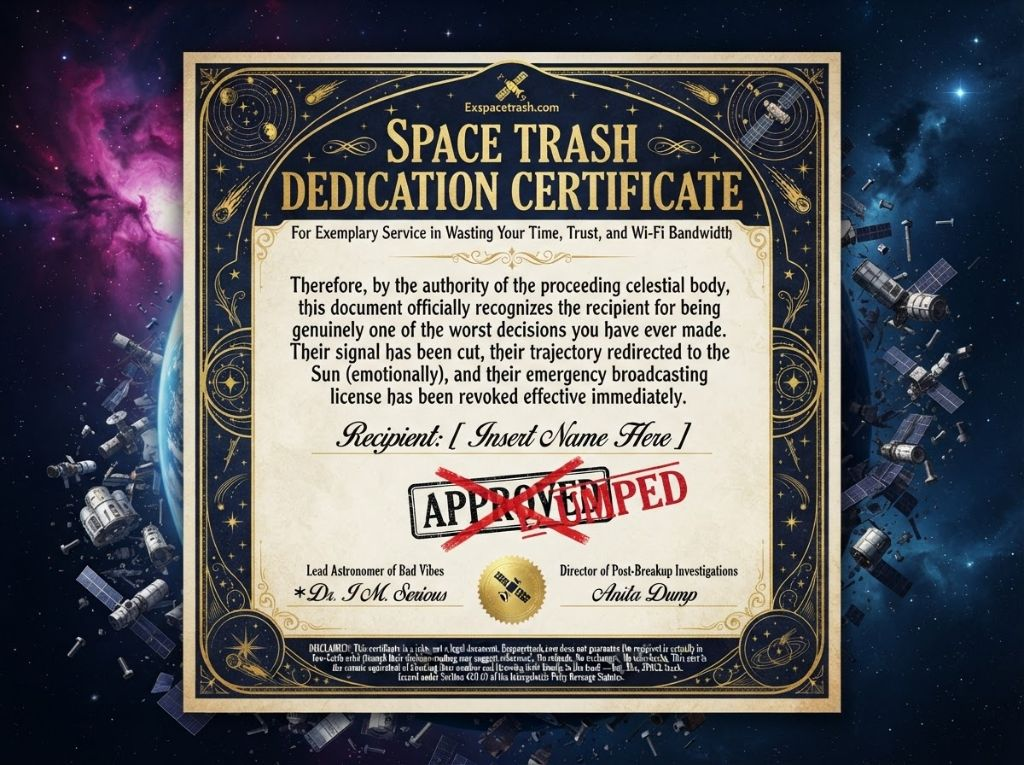
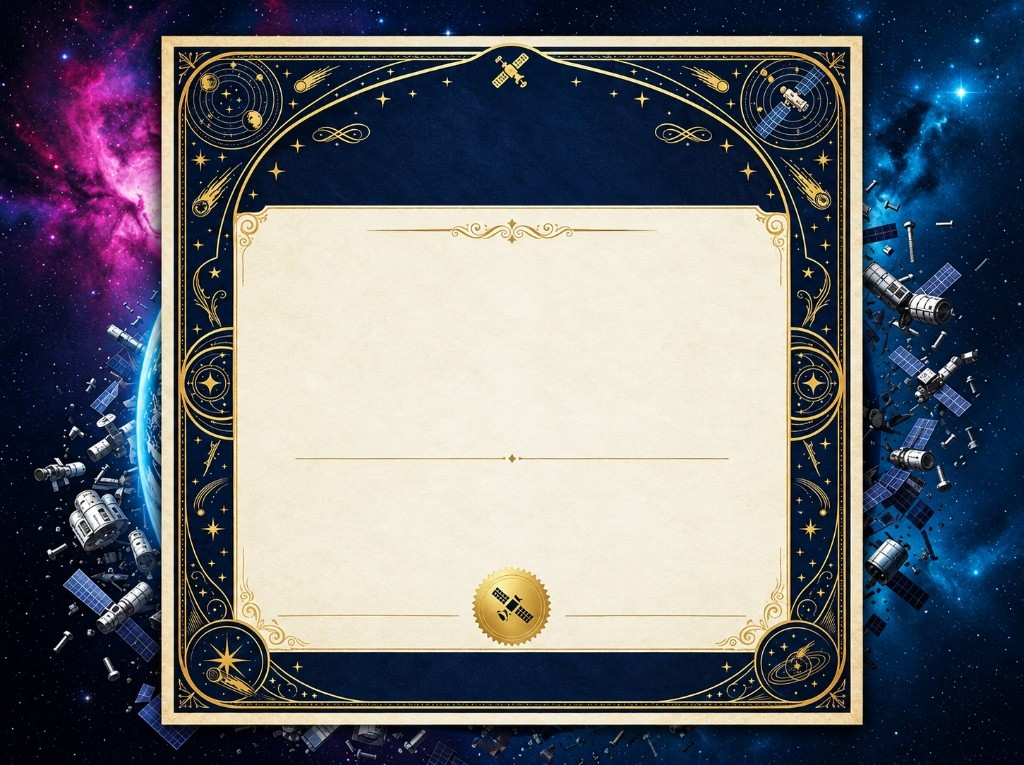
Rebuild the certificate so printed copy can never collide with the buyer's text
The artwork used to carry its printed words baked into the pixels, so a long
name or quote ran straight across them. Both templates now use clean, text-free
artwork and every word -- the fixed title, kicker, sign-off and fine print AND
the buyer's name, quote, emoji and meta line -- is real HTML laid over the art.

The stage is now a flex column of three sibling rows (cert-head / cert-slot /
cert-foot), so the buyer's block and the fixed copy cannot overlap by
construction, whatever the buyer types. Two follow-on fixes were needed:

  * box-sizing: border-box on .cert-stage. Without it the 1024x765 stage was
    content-box, so its 76/66px padding inflated it to 1144x907 and html2canvas
    clipped the footer off the bottom of the capture.
  * A corrupted fragment at the pickHeroDebris comment broke the inline script
    (`node --check` failed); repaired.

Layout per the two requests that followed:
  * Template B: title lifted out of the column and pinned into the navy band
    above the ivory sheet, switched to light ink; buyer's block left at the top
    of the sheet, off the wax seal.
  * Template A: buyer's block centred so it lands on the middle of the sheet.
    Quote/meta given stronger outlines since they now sit over the bright planet.

Adds tests/check-cert-layout.mjs, which asserts the three properties that keep
the layout collision-proof across both markup instances and both templates, and
wire `npm test` to run all five checks. Bumps APP_VERSION to 1.3.4.

diff --git a/index.html b/index.html
@@ -389,11 +389,19 @@
         <div style="margin: 15px 0;">
             <div class="cert-preview-viewport">
                 <div class="cert-stage cert-tpl-a" id="cert-preview-stage" data-cert-stage>
-                    <div class="cert-panel">
+                    <div class="cert-head">
+                        <div class="cert-title" data-cert-role="title">Official Space Trash Dedication Certificate</div>
+                        <div class="cert-kicker" data-cert-role="kicker">Awarded for Outstanding Performance in Being Someone Else’s Problem Now</div>
+                    </div>
+                    <div class="cert-slot">
                         <div class="cert-emoji" data-cert-role="emoji" style="display:none;">--</div>
                         <div class="cert-name" data-cert-role="name">UNKNOWN</div>
                         <div class="cert-quote" data-cert-role="quote" style="display:none;">--</div>
                         <div class="cert-meta" data-cert-role="meta">--</div>
+                    </div>
+                    <div class="cert-foot">
+                        <div class="cert-signoff" data-cert-role="signoff">Mission Control Heartbreak Division · Exspacetrash.com · EST 2024</div>
+                        <div class="cert-fine" data-cert-role="fine">100% NOVELTY — no actual astronauts were harmed and no orbit was altered in the making of this certificate. Exspacetrash.com accepts no liability for emotional damage, hurt feelings, or grudges held past 2 AM. Not valid for legal separation, restraining orders, or custody of the dog. The debris is real. This paperwork is not.</div>
                     </div>
                 </div>
             </div>
@@ -481,77 +489,104 @@
     <!-- and the paid export can never drift apart.                         -->
     <!-- ================================================================= -->
     <style>
-      .cert-stage { position: relative; width: 1024px; height: 765px;
+      /* ---- Certificate: pure-art background + HTML text ----
+         The artwork images now carry no baked-in words. Every word -- the fixed
+         copy AND the buyer's name, quote and meta -- is real HTML laid over the
+         art, so printed text can never collide with the buyer's again, and no
+         scrim is needed to hide anything. */
+      /* The stage is a flex COLUMN of three rows -- head (the fixed title),
+         slot (everything the buyer typed) and foot (the disclaimers). As
+         siblings in a flex column the rows cannot overlap one another, so
+         however long the buyer's name, quote or meta turn out to be, their
+         text can never land on top of the printed copy. The inset padding keeps
+         every row inside the artwork's own frame. */
+      .cert-stage { position: relative; box-sizing: border-box;
+                    width: 1024px; height: 765px;
                     background-size: 1024px 765px; background-repeat: no-repeat;
-                    font-family: 'Share Tech Mono', monospace; overflow: hidden; }
-      .cert-tpl-a { background-image: url('/assets/certs/cert-a-orbital.png'); }
-      .cert-tpl-b { background-image: url('/assets/certs/cert-b-parchment.png'); }
+                    font-family: 'Share Tech Mono', monospace; overflow: hidden;
+                    display: flex; flex-direction: column; align-items: center; }
+      .cert-tpl-a { background-image: url('/assets/certs/cert-a-orbital.png');
+                    padding: 76px 60px 66px; }
+      /* B's padding is tuned to the sheet's own furniture: the title clears the
+         gold flourish band (which ends ~y232), and the bottom inset lifts the
+         disclaimers up onto the blank ivory between the divider rule (y458) and
+         the wax seal (y~590), so nothing lands on the ribbon or the corner
+         medallions. */
+      .cert-tpl-b { background-image: url('/assets/certs/cert-b-parchment.png');
+                    padding: 330px 200px 185px; }
+      /* B's title is lifted out of the flex column and pinned up in the navy band
+         above the ivory sheet, so the sheet below keeps its own blank top. The
+         band is dark navy, so the title and kicker switch to light ink. */
+      .cert-tpl-b .cert-head { position: absolute; left: 238px; right: 238px;
+                    width: auto; top: 104px; }
+      /* On B the title now sits on the dark navy band, so it needs light ink --
+         the sheet's dark-brown ink would disappear against it. */
+      .cert-tpl-b .cert-head .cert-title { color: #e9c464;
+                    text-shadow: 0 1px 4px rgba(0,0,0,0.85); }
+      .cert-tpl-b .cert-head .cert-kicker { color: #cfe0ff;
+                    text-shadow: 0 1px 3px rgba(0,0,0,0.85); }
 
-      /* The panel is OPAQUE on purpose. It previously used alpha (0.80 / 0.93)
-         and the artwork's own printed paragraph showed straight through it,
-         colliding with the buyer's name. A solid fill is the only reliable fix
-         on artwork this busy.
-         Each panel is sized to sit over the artwork's paragraph block and stop
-         before its stamps / footer. */
-      /* NO BOX. A hard-edged rectangle reads as a sticker pasted over the art.
-         Instead: a soft radial scrim — opaque right where the text sits, faded
-         to fully transparent well before the edge, so there is no visible
-         border and the artwork shows through around the words. */
-      .cert-panel { position: absolute; box-sizing: border-box; display: flex;
-                    flex-direction: column; align-items: center;
+      .cert-head, .cert-slot, .cert-foot { width: 100%; box-sizing: border-box;
+                    display: flex; flex-direction: column; align-items: center;
                     text-align: center; }
+      /* The buyer's box grows to fill whatever space the head and foot leave
+         behind. Its content is pinned to the bottom of that space on A (so the
+         name reads as a signature over the dark lower sky) and to the top on B
+         (so it stays above the wax seal). Either way the flex column guarantees
+         it can never reach into the fixed copy. */
+      .cert-slot { flex: 1 1 auto; justify-content: center; }
+      .cert-tpl-b .cert-slot { justify-content: flex-start; }
 
-      /* Template A — content anchored to the TOP of the scrim, which lifts the
-         name up under the artwork's subtitle instead of dropping it across the
-         middle of the Earth. */
-      .cert-tpl-a .cert-panel {
-                    left: 96px; top: 196px; width: 832px; height: 340px;
-                    justify-content: flex-start; padding: 22px 34px 0;
-                    background: radial-gradient(ellipse 72% 56% at 50% 42%,
-                                rgba(2, 4, 12, 0.95) 0%,
-                                rgba(2, 4, 12, 0.88) 40%,
-                                rgba(2, 4, 12, 0.50) 70%,
-                                rgba(2, 4, 12, 0.00) 100%); }
+      /* Template A -- deep space with a centred Earth. Rows run title band /
+         buyer's box low over the dark space under the planet / disclaimers in
+         the bottom band.
+         Template B -- parchment sheet. Title sits under the top rule, the
+         buyer's box follows it down the blank body, and the disclaimers sit
+         below the lower rule, clear of the wax seal at the sheet's foot. */
 
-      /* Template B — content anchored to the BOTTOM, which lands the name on the
-         artwork's own "Recipient: ______" line rather than over its paragraph. */
-      .cert-tpl-b .cert-panel {
-                    left: 196px; top: 286px; width: 632px; height: 356px;
-                    justify-content: flex-end; padding: 0 30px 34px;
-                    background: radial-gradient(ellipse 74% 58% at 50% 58%,
-                                rgba(250, 245, 228, 0.97) 0%,
-                                rgba(250, 245, 228, 0.94) 44%,
-                                rgba(250, 245, 228, 0.58) 72%,
-                                rgba(250, 245, 228, 0.00) 100%); }
+      .cert-title { font-weight: 700; letter-spacing: 2px; line-height: 1.06;
+                    text-transform: uppercase; }
+      .cert-tpl-a .cert-title { color: #e9c464; font-size: 44px;
+                    text-shadow: 0 2px 6px rgba(0,0,0,0.95), 0 0 22px rgba(0,0,0,0.8); }
+      .cert-tpl-b .cert-title { color: #1d2a4a; font-family: Georgia, 'Times New Roman', serif;
+                    font-size: 33px; }
 
-      /* The emoji now sits in normal flow inside the panel rather than floating
-         over the artwork, so it can never land on top of the title. */
-      .cert-emoji { line-height: 1; margin-bottom: 4px; }
-      .cert-tpl-a .cert-emoji { font-size: 42px; }
-      .cert-tpl-b .cert-emoji { font-size: 38px; }
+      .cert-kicker { font-style: italic; margin-top: 6px; }
+      .cert-tpl-a .cert-kicker { color: #f4aac6; font-size: 15px;
+                    text-shadow: 0 1px 3px #000, 0 0 12px rgba(0,0,0,0.98); }
+      .cert-tpl-b .cert-kicker { color: #7a2a1c; font-family: Georgia, serif; font-size: 13px; }
+
+      .cert-emoji { line-height: 1; margin-bottom: 2px; }
+      .cert-tpl-a .cert-emoji { font-size: 38px; }
+      .cert-tpl-b .cert-emoji { font-size: 30px; }
 
       .cert-name { font-weight: 700; line-height: 1.05; word-break: break-word;
                    text-transform: uppercase; max-width: 100%; }
-      /* With the box gone, contrast now rides on the text shadow. Template A's
-         artwork is bright and busy, so the gold needs a heavy dark halo to stay
-         readable over the scrim AND over anything showing through it. */
-      .cert-tpl-a .cert-name { color: #efc84e; font-size: 48px;
-                    text-shadow: 0 2px 4px rgba(0,0,0,0.98), 0 0 16px rgba(0,0,0,0.95),
-                                 0 0 40px rgba(0,0,0,0.85); }
-      .cert-tpl-b .cert-name { color: #3a2a10; font-family: Georgia, 'Times New Roman', serif; font-size: 42px;
-                    text-shadow: 0 1px 1px rgba(255,255,255,0.9); }
+      .cert-tpl-a .cert-name { color: #efc84e; font-size: 50px;
+                    text-shadow: 0 2px 5px rgba(0,0,0,0.98), 0 0 30px rgba(0,0,0,0.9); }
+      .cert-tpl-b .cert-name { color: #2f2010; font-family: Georgia, 'Times New Roman', serif;
+                    font-size: 44px; }
 
-      .cert-quote { font-style: italic; margin-top: 8px; word-break: break-word; max-width: 100%; }
-      .cert-tpl-a .cert-quote { color: #4ef2d2; font-size: 19px;
-                    text-shadow: 0 1px 3px rgba(0,0,0,0.98), 0 0 12px rgba(0,0,0,0.9); }
-      .cert-tpl-b .cert-quote { color: #8a2b1f; font-family: Georgia, 'Times New Roman', serif; font-size: 18px;
-                    text-shadow: 0 1px 1px rgba(255,255,255,0.85); }
+      .cert-quote { font-style: italic; margin-top: 6px; word-break: break-word; max-width: 100%; }
+      .cert-tpl-a .cert-quote { color: #6dffe4; font-size: 17px;
+                    text-shadow: 0 1px 3px #000, 0 0 10px rgba(0,0,0,0.98); }
+      .cert-tpl-b .cert-quote { color: #7a2a1c; font-family: Georgia, serif; font-size: 15px; }
 
-      .cert-meta { margin-top: 12px; font-size: 13px; letter-spacing: 1px; max-width: 100%; }
-      .cert-tpl-a .cert-meta { color: #8ab4f8;
-                    text-shadow: 0 1px 3px rgba(0,0,0,0.98), 0 0 10px rgba(0,0,0,0.9); }
-      .cert-tpl-b .cert-meta { color: #6b5a3a; font-family: Georgia, 'Times New Roman', serif;
-                    text-shadow: 0 1px 1px rgba(255,255,255,0.85); }
+      .cert-meta { margin-top: 8px; font-size: 12px; letter-spacing: 1px; max-width: 100%; }
+      .cert-tpl-a .cert-meta { color: #cfe0ff;
+                    text-shadow: 0 1px 3px #000, 0 0 10px rgba(0,0,0,0.98); }
+      .cert-tpl-b .cert-meta { color: #5d4a2e; font-family: Georgia, serif; }
+
+      .cert-signoff { font-style: italic; }
+      .cert-tpl-a .cert-signoff { color: #c8b98e; font-size: 11px;
+                    text-shadow: 0 1px 3px rgba(0,0,0,0.95); }
+      .cert-tpl-b .cert-signoff { color: #8a6a3a; font-family: Georgia, serif; font-size: 11px; }
+
+      .cert-fine { margin-top: 4px; font-size: 8px; line-height: 1.45; letter-spacing: 0.3px; }
+      /* A's fine print is held well inside the ornate frame's corner flourishes. */
+      .cert-tpl-a .cert-fine { color: #8e9bb5; max-width: 660px;
+                    text-shadow: 0 1px 2px rgba(0,0,0,0.9); }
+      .cert-tpl-b .cert-fine { color: #8a6a3a; }
 
       /* Live preview is the full-size stage scaled down. */
       .cert-preview-viewport { position: relative; width: 430px; height: 321px;
@@ -563,11 +598,19 @@
     <!-- Hidden, full-size export target (what html2canvas captures) -->
     <div id="export-cert" style="position: fixed; left: 0; top: 0; z-index: -1; opacity: 0; pointer-events: none;">
       <div class="cert-stage cert-tpl-a" data-cert-stage>
-        <div class="cert-panel">
-          <div class="cert-emoji" data-cert-role="emoji" style="display:none;">--</div>
-          <div class="cert-name" data-cert-role="name">--</div>
-          <div class="cert-quote" data-cert-role="quote" style="display:none;">--</div>
-          <div class="cert-meta" data-cert-role="meta">--</div>
+        <div class="cert-head">
+            <div class="cert-title" data-cert-role="title">Official Space Trash Dedication Certificate</div>
+            <div class="cert-kicker" data-cert-role="kicker">Awarded for Outstanding Performance in Being Someone Else’s Problem Now</div>
+        </div>
+        <div class="cert-slot">
+            <div class="cert-emoji" data-cert-role="emoji" style="display:none;">--</div>
+            <div class="cert-name" data-cert-role="name">UNKNOWN</div>
+            <div class="cert-quote" data-cert-role="quote" style="display:none;">--</div>
+            <div class="cert-meta" data-cert-role="meta">--</div>
+        </div>
+        <div class="cert-foot">
+            <div class="cert-signoff" data-cert-role="signoff">Mission Control Heartbreak Division · Exspacetrash.com · EST 2024</div>
+            <div class="cert-fine" data-cert-role="fine">100% NOVELTY — no actual astronauts were harmed and no orbit was altered in the making of this certificate. Exspacetrash.com accepts no liability for emotional damage, hurt feelings, or grudges held past 2 AM. Not valid for legal separation, restraining orders, or custody of the dog. The debris is real. This paperwork is not.</div>
         </div>
       </div>
     </div>
@@ -584,7 +627,7 @@
     const API_BASE = ''; // same-origin serverless functions under /api
     // Bump this whenever index.html changes. It rides along on every analytics
     // event, so "conversion dropped on the 12th" can be tied to a deploy.
-    const APP_VERSION = '1.3.3';
+    const APP_VERSION = '1.3.4';
     let currentUser = null;
 
     // =====================================================================
@@ -1312,7 +1355,7 @@
         // size overflowed the panel. Step the type down as it gets longer so
         // it always fits on one line.
         const len = name.textContent.length;
-        const base = tpl === 'b' ? 42 : 48;
+        const base = tpl === 'b' ? 44 : 50;
         const scaled = len <= 8  ? base
                      : len <= 12 ? base * 0.82
                      : len <= 16 ? base * 0.68
@@ -1862,6 +1905,22 @@
         // actually shown — otherwise an orbit-filtered object stays claimable.
         let owner = hit;
         while (owner.parent && owner.parent.type !== 'Scene') owner = owner.parent;
+        if (owner.visible === false) return;
+        inspectDebris(hit.userData);
+      }
+    });
+
+    window.addEventListener('resize', () => {
+      camera.aspect = window.innerWidth / window.innerHeight;
+      camera.updateProjectionMatrix();
+      renderer.setSize(window.innerWidth, window.innerHeight);
+    });
+
+    animate();
+  </script>
+</body>
+</html>
+ne') owner = owner.parent;
         if (owner.visible === false) return;
         inspectDebris(hit.userData);
       }

diff --git a/README.md b/README.md
@@ -29,8 +29,14 @@ printed and posted. Every orbit costs the same.
    behind *"Prefer to browse the catalogue yourself?"*.
 3. **Claim flow** — pick an object, type your ex's name, choose a certificate
    design, pay via Stripe.
-4. **Certificates** — two artwork templates (Orbital / Parchment) with the
-   buyer's text rendered on top, downloadable as high-resolution PNG.
+4. **Certificates** — two artwork templates (Orbital / Parchment), downloadable
+   as high-resolution PNG. The artwork carries **no printed words at all**:
+   every word — the fixed title, kicker, sign-off and fine print *and* the
+   buyer's name, quote, emoji and meta line — is real HTML laid over the art.
+   The stage is a **flex column** of three rows (`cert-head` / `cert-slot` /
+   `cert-foot`), so the buyer's block and the printed copy are siblings that
+   structurally cannot overlap, however long the name is. See *Certificate
+   layout* below.
 5. **Physical mail option** — **$19.99** domestic / **$29.99** international is
    the *whole order total* (digital + a printed copy posted to the buyer), not
    an add-on. The server charges the digital line plus the printed difference,
@@ -243,11 +249,14 @@ To browse other people's claims, visit [`/wall`](https://www.exspacetrash.com/wa
 
 ## Tests
 
-Four zero-dependency guard checks live in `tests/`. Run them after any change
-to pricing, the checkout handoff, analytics, or the 3D scene:
+Five zero-dependency guard checks live in `tests/`. Run them all with `npm test`,
+or individually after any change to pricing, the checkout handoff, analytics,
+the 3D scene, or the certificate layout:
 
 ```bash
+npm test                          # runs all five, in order
 node tests/check-contracts.mjs    # client/server key names match
+node tests/check-cert-layout.mjs  # certificate stays structurally collision-proof
 node tests/check-pricing.mjs      # prices agree across client, server, legal page
 node tests/check-cleanref.mjs     # analytics input sanitiser resists hostile input
 node tests/check-emoji-scene.mjs  # the $1.99 emoji add-on renders on the 3D object
@@ -278,4 +287,16 @@ They exist because the bugs that actually cost money here are **silent**:
   the badge is an offset child of that group and would swing away from the
   object (and behind it) if the group were rotated.
 
-All four exit non-zero on failure, so they can gate a deploy.
+- **`check-cert-layout.mjs`** guards the certificate rebuild described under
+  *Certificate layout* above. The old design baked the printed copy into the
+  artwork's pixels, so a long buyer name ran across printed words; the fix moved
+  every word into HTML in a flex column. Three properties keep that safe, and
+  losing any one silently restores the collision: the stage must stay
+  `display:flex; flex-direction:column` (siblings cannot overlap), the rows must
+  stay **out of** `position:absolute` (absolute + a long name is precisely how
+  the block used to reach the footer), and the stage must stay `border-box`
+  (otherwise its 76/66px padding inflates the 1024×765 box and html2canvas
+  clips the footer off the bottom — which is exactly what happened). It asserts
+  all three across both markup instances and both templates.
+
+All five exit non-zero on failure, so they can gate a deploy.
